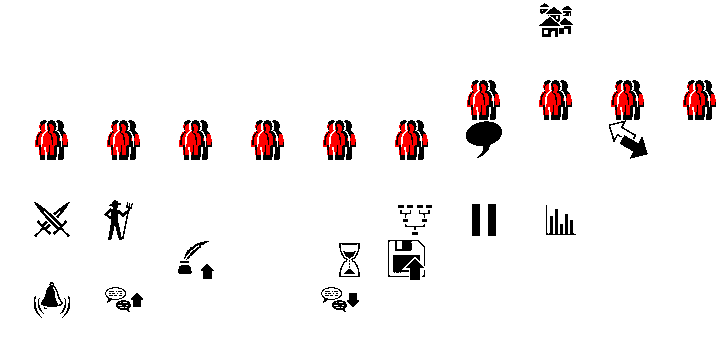
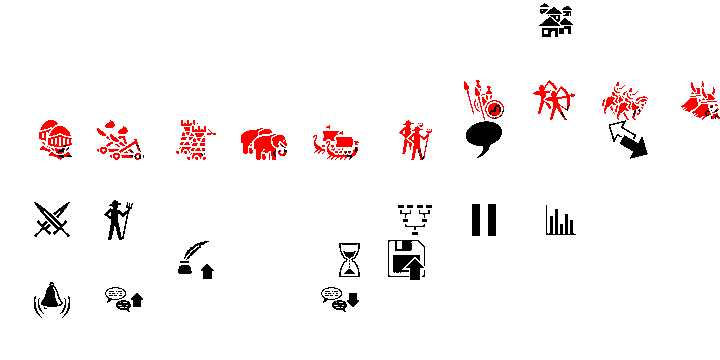
AoE2: a distinct unit group per control-group digit
Each digit now shows its own unit drawn twice as a group: 1 spearmen,
2 archers, 3 cavalry, 4 vikings, 5 knights, 6 catapults, 7 siege towers,
8 elephants, 9 longships, 0 villagers. Ctrl+digit adds a plus in the
lower-right corner. fetch_icons.py composes them at keycap scale (48x40,
1-bit) with a 2 px black seam around the front copy and the plus, and
the bindings use region [48, 40] so the generator places them 1:1 and
the seam survives. The shared squad icon (lorc/backup) is gone.

Claude-Session: https://claude.ai/code/session_01Hs9SNTuYKh6YvuVcPf5MKZ

diff --git a/polyhost/res/overlay_sources/aoe2/fetch_icons.py b/polyhost/res/overlay_sources/aoe2/fetch_icons.py
@@ -53,13 +53,30 @@ ICONS = {
     "mapcombat": "lorc/sword-clash",
     "mapeco": "lorc/wheat",
     "mapnormal": "lorc/mountains",
-    # control groups
-    "groupselect": "lorc/backup",
     # parts composed in main(): chat review and save chapter
     "_conversation": "lorc/conversation",
     "_arrow": "delapouite/plain-arrow",
     "_quill": "lorc/quill-ink",
 }
+
+# Control groups: one unit per digit, drawn twice as a group (`groups()`).
+GROUP_UNITS = {
+    "1": "lorc/spartan",
+    "2": "lorc/bowman",
+    "3": "delapouite/cavalry",
+    "4": "delapouite/viking-head",
+    "5": "lorc/visored-helm",
+    "6": "heavenly-dog/catapult",
+    "7": "delapouite/siege-tower",
+    "8": "delapouite/elephant",
+    "9": "delapouite/drakkar",
+    "0": "delapouite/farmer",
+}
+# The group icon is drawn at keycap scale, so the generator places it 1:1
+# (aoe2_hd.yaml gives these bindings `region: [48, 40]`).
+GROUP_W, GROUP_H = 48, 40
+GROUP_DY = 6        # the front copy sits this much lower than the back one
+GROUP_SEAM = 2      # black pixels between the two copies, and around the plus
 
 
 def chat_review(out: Path) -> None:
@@ -87,18 +104,65 @@ def save_chapter(out: Path) -> None:
     print("  savechapter.png  <- _quill.png + _arrow.png")
 
 
-def group_create(out: Path) -> None:
-    """Create group (Ctrl+digit): the squad of "Select group" with a plus sign."""
-    from PIL import Image, ImageDraw
-    squad = Image.open(out / "groupselect.png").convert("RGBA")
-    canvas = Image.new("RGBA", (squad.width + 56, squad.height), (0, 0, 0, 0))
-    canvas.alpha_composite(squad, (0, 0))
-    d = ImageDraw.Draw(canvas)
-    cx, cy = squad.width + 30, squad.height // 2
-    d.rectangle((cx - 22, cy - 7, cx + 22, cy + 7), fill=(0, 0, 0, 255))
-    d.rectangle((cx - 7, cy - 22, cx + 7, cy + 22), fill=(0, 0, 0, 255))
-    canvas.save(out / "groupcreate.png")
-    print("  groupcreate.png  <- groupselect.png + a plus sign")
+def _unit_mask(src: Path, h: int):
+    """A unit's ink at `h` px high, 1-bit."""
+    import numpy as np
+    from PIL import Image
+    alpha = Image.open(src).convert("RGBA").getchannel("A")
+    alpha = alpha.crop(alpha.getbbox())
+    w = max(1, round(alpha.width * h / alpha.height))
+    return np.array(alpha.resize((w, h), Image.LANCZOS)) > 150
+
+
+def _group_mask(src: Path):
+    """The unit twice: a back copy, and a front copy shifted right by 40 % of its
+    width and down GROUP_DY. The front copy's ink grown by GROUP_SEAM is cleared
+    from the back copy. The largest height whose group fits GROUP_W x GROUP_H
+    without rescaling, so the seam stays exactly GROUP_SEAM px."""
+    import numpy as np
+    from scipy.ndimage import binary_dilation
+    for h in range(GROUP_H - GROUP_DY, 10, -1):
+        m = _unit_mask(src, h)
+        dx = max(8, m.shape[1] * 2 // 5)
+        if m.shape[1] + dx <= GROUP_W:
+            break
+    H, W = h + GROUP_DY, m.shape[1] + dx
+    back = np.zeros((H, W), bool)
+    front = np.zeros((H, W), bool)
+    back[:h, :m.shape[1]] = m
+    front[GROUP_DY:, dx:] = m
+    return (back & ~binary_dilation(front, iterations=GROUP_SEAM)) | front
+
+
+def _with_plus(mask, size=13, bar=3):
+    """A plus sign in the lower-right corner, GROUP_SEAM px clear around it."""
+    import numpy as np
+    from scipy.ndimage import binary_dilation
+    H, W = mask.shape
+    p = np.zeros((H, W), bool)
+    cy, cx = H - size // 2 - 1, W - size // 2 - 1
+    p[cy - bar // 2:cy + bar // 2 + 1, cx - size // 2:cx + size // 2 + 1] = True
+    p[cy - size // 2:cy + size // 2 + 1, cx - bar // 2:cx + bar // 2 + 1] = True
+    return (mask & ~binary_dilation(p, iterations=GROUP_SEAM)) | p
+
+
+def _save_cell(mask, path: Path) -> None:
+    """Black ink on transparent, bottom-right in a GROUP_W x GROUP_H canvas."""
+    import numpy as np
+    from PIL import Image
+    canvas = np.zeros((GROUP_H, GROUP_W, 4), np.uint8)
+    h, w = mask.shape
+    canvas[GROUP_H - h:, GROUP_W - w:, 3] = np.where(mask, 255, 0)
+    Image.fromarray(canvas, "RGBA").save(path)
+
+
+def groups(out: Path) -> None:
+    """group<N>.png (select) and groupnew<N>.png (create, with a plus)."""
+    for digit in GROUP_UNITS:
+        g = _group_mask(out / f"_unit{digit}.png")
+        _save_cell(g, out / f"group{digit}.png")
+        _save_cell(_with_plus(g), out / f"groupnew{digit}.png")
+        print(f"  group{digit}.png, groupnew{digit}.png  <- _unit{digit}.png twice")
 
 
 def trim(out: Path, stem: str) -> None:
@@ -112,12 +176,13 @@ def trim(out: Path, stem: str) -> None:
 def main() -> int:
     out = Path(__file__).resolve().parent / "icons"
     game_icons.render(ICONS, out)
+    game_icons.render({f"_unit{d}": n for d, n in GROUP_UNITS.items()}, out, render_px=256)
     chat_review(out)
     save_chapter(out)
     for stem in ("idlevillager", "techtree", "statistics", "gametime", "savegame",
-                 "previousview", "groupselect"):
+                 "previousview"):
         trim(out, stem)
-    group_create(out)
+    groups(out)
     program_mark.ensure(out)
     print(f"Wrote icons to {out}")
     return 0

diff --git a/polyhost/res/overlay_sources/aoe2/SOURCES.md b/polyhost/res/overlay_sources/aoe2/SOURCES.md
@@ -24,7 +24,10 @@ defaults; that was not checked.
 
 Control groups (1 to 0 select a group, Ctrl+1 to Ctrl+0 create one) are not
 on the sheet. They are AoE2's standard keys, added at the maintainer's request.
-The key's own digit names the group.
+Each digit has its own unit, drawn twice as a group, so the groups are easy to
+tell apart: 1 spearmen, 2 archers, 3 cavalry, 4 vikings, 5 knights, 6 catapults,
+7 siege towers, 8 elephants, 9 longships, 0 villagers. The game does not tie a
+group number to a unit type; the icons only suggest a habit.
 
 ## Left out
 
@@ -45,7 +48,8 @@ key uses it, measured with the firmware fonts (`tools/oled_preview.py`) and the
 
 | Keys | Legend ends at x | Area |
 |---|---|---|
-| Letters, digits, `,` `.`, F3, F9, Home, Enter, Page Up, Page Down | 22 to 36 (digits: the shifted symbol, which the icon erases) | 40×40 |
+| Letters, `,` `.`, F3, F9, Home, Enter, Page Up, Page Down | 22 to 36 | 40×40 |
+| Digits (control groups) | 22 to 36 (the shifted symbol, which the group erases) | 48×40, drawn 1:1 |
 | F2 | 35 | 34×40 |
 | F4 | 37 | 30×40 |
 | F11 | 47 | 21×40 |
@@ -113,12 +117,28 @@ scales it to the keycap.
 | `mapcombat.png` | [sword-clash](https://game-icons.net/1x1/lorc/sword-clash.html) | Lorc |
 | `mapeco.png` | [wheat](https://game-icons.net/1x1/lorc/wheat.html) | Lorc |
 | `mapnormal.png` | [mountains](https://game-icons.net/1x1/lorc/mountains.html) | Lorc |
-| `groupselect.png` | [backup](https://game-icons.net/1x1/lorc/backup.html) | Lorc |
+| `_unit1.png` | [spartan](https://game-icons.net/1x1/lorc/spartan.html) | Lorc |
+| `_unit2.png` | [bowman](https://game-icons.net/1x1/lorc/bowman.html) | Lorc |
+| `_unit3.png` | [cavalry](https://game-icons.net/1x1/delapouite/cavalry.html) | Delapouite |
+| `_unit4.png` | [viking-head](https://game-icons.net/1x1/delapouite/viking-head.html) | Delapouite |
+| `_unit5.png` | [visored-helm](https://game-icons.net/1x1/lorc/visored-helm.html) | Lorc |
+| `_unit6.png` | [catapult](https://game-icons.net/1x1/heavenly-dog/catapult.html) | HeavenlyDog |
+| `_unit7.png` | [siege-tower](https://game-icons.net/1x1/delapouite/siege-tower.html) | Delapouite |
+| `_unit8.png` | [elephant](https://game-icons.net/1x1/delapouite/elephant.html) | Delapouite |
+| `_unit9.png` | [drakkar](https://game-icons.net/1x1/delapouite/drakkar.html) | Delapouite |
+| `_unit0.png` | [farmer](https://game-icons.net/1x1/delapouite/farmer.html) | Delapouite |
 | `_conversation.png` | [conversation](https://game-icons.net/1x1/lorc/conversation.html) | Lorc |
 | `_arrow.png` | [plain-arrow](https://game-icons.net/1x1/delapouite/plain-arrow.html) | Delapouite |
 | `_quill.png` | [quill-ink](https://game-icons.net/1x1/lorc/quill-ink.html) | Lorc |
 
-`fetch_icons.py` composes four files from these parts: `chatback.png` and
+`fetch_icons.py` composes files from these parts: `chatback.png` and
 `chatfwd.png` from `_conversation.png` and `_arrow.png` (the arrow turned up
 for back), and `savechapter.png` from `_quill.png` and the up arrow, as on the
-save icon, and `groupcreate.png` from `groupselect.png` and a drawn plus sign.
+save icon.
+
+`group<N>.png` draws `_unit<N>.png` twice at keycap scale: a back copy, and a
+front copy 40 % of its width to the right and 6 px lower, with 2 px of black
+cleared around the front copy so the two stay apart. `groupnew<N>.png` adds a
+13 px plus in the lower-right corner with the same 2 px clearance. Both are
+48×40 1-bit images, so the generator places them without scaling and the 2 px
+seam survives.
